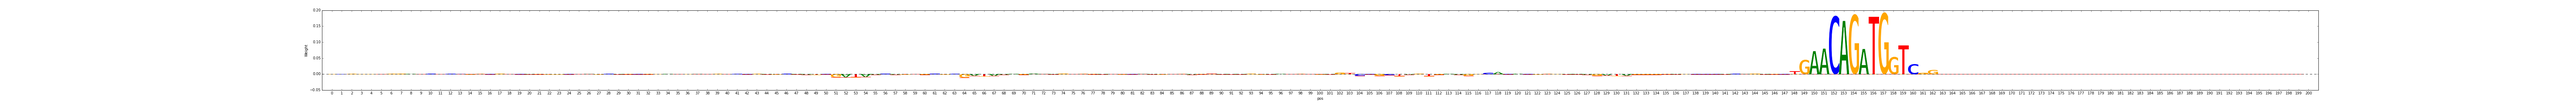
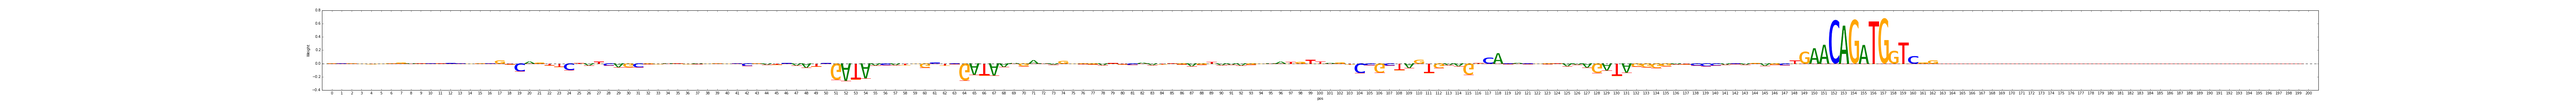
expo upweight code in
Former-commit-id: 7d4ef8eb1ed68d4a391bf053489ef01f14855e9f [formerly 24d98cca371fc95571f79d4fe134fc0058963b84]
Former-commit-id: 26a80b72f239a153e6421ce679d410302ba3c8ca

Changed region(s): [[0.125, 0.4062, 0.875, 0.7812], [0.6875, 0.1562, 0.75, 0.25]]

diff --git a/deeplift/keras_conversion.py b/deeplift/keras_conversion.py
@@ -30,7 +30,7 @@ ActivationTypes = deeplift_util.enum(relu='relu',
                                      linear='linear')
 
 
-def batchnorm_conversion(layer, name, mxts_mode):
+def batchnorm_conversion(layer, name, **kwargs):
    return [blobs.BatchNormalization(
         name=name,
         gamma=np.array(layer.gamma.get_value()),
@@ -43,10 +43,11 @@ def batchnorm_conversion(layer, name, mxts_mode):
     )] 
 
 
-def conv2d_conversion(layer, name, mxts_mode):
-    #mxts_mode not used
+def conv2d_conversion(layer, name, mxts_mode, expo_upweight_factor):
+    #mxts_mode only used for activation
     converted_activation = activation_conversion(
-                            layer, name, mxts_mode=mxts_mode)
+                            layer, name, mxts_mode=mxts_mode,
+                            expo_upweight_factor=expo_upweight_factor)
     to_return = [blobs.Conv2D(
             name=("preact_" if len(converted_activation) > 0
                         else "")+name,
@@ -58,8 +59,7 @@ def conv2d_conversion(layer, name, mxts_mode):
     return to_return
 
 
-def pool2d_conversion(layer, name, pool_mode, mxts_mode):
-    #mxts_mode not used
+def pool2d_conversion(layer, name, pool_mode, **kwargs):
     return [blobs.Pool2D(
              name=name,
              pool_size=layer.get_config()[KerasKeys.pool_size],
@@ -69,22 +69,21 @@ def pool2d_conversion(layer, name, pool_mode, mxts_mode):
              pool_mode=pool_mode)]
 
 
-def zeropad2d_conversion(layer, name, mxts_mode):
-    #mxts_mode not used
+def zeropad2d_conversion(layer, name, **kwargs):
     return [blobs.ZeroPad2D(
              name=name,
              padding=layer.get_config()[KerasKeys.padding])]
 
 
-def flatten_conversion(layer, name, mxts_mode):
-    #mxts_mode not used
+def flatten_conversion(layer, name, **kwargs):
     return [blobs.Flatten(name=name)]
 
 
-def dense_conversion(layer, name, mxts_mode):
-    #mxts_mode not used
-    converted_activation = activation_conversion(layer, name,
-                                                  mxts_mode=mxts_mode) 
+def dense_conversion(layer, name, mxts_mode, expo_upweight_factor):
+    converted_activation = activation_conversion(
+                                  layer, name,
+                                  mxts_mode=mxts_mode,
+                                  expo_upweight_factor=expo_upweight_factor) 
     to_return = [blobs.Dense(
                   name=("preact_" if len(converted_activation) > 0
                         else "")+name, 
@@ -94,31 +93,40 @@ def dense_conversion(layer, name, mxts_mode):
     return to_return
 
 
-def prelu_conversion(layer, name, mxts_mode):
+def prelu_conversion(layer, name, mxts_mode, expo_upweight_factor):
    return [blobs.PReLU(alpha=layer.get_weights()[0],
-                       name=name, mxts_mode=mxts_mode)] 
+                       name=name, mxts_mode=mxts_mode,
+                       expo_upweight_factor=expo_upweight_factor)] 
 
 
-def relu_conversion(layer, name, mxts_mode):
-    return [blobs.ReLU(name=name, mxts_mode=mxts_mode)]
+def relu_conversion(layer, name, mxts_mode, expo_upweight_factor):
+    return [blobs.ReLU(name=name, mxts_mode=mxts_mode,
+                                  expo_upweight_factor=expo_upweight_factor)]
 
 
-def sigmoid_conversion(layer, name, mxts_mode):
-    return [blobs.Sigmoid(name=name, mxts_mode=mxts_mode)]
+def sigmoid_conversion(layer, name, mxts_mode, expo_upweight_factor):
+    return [blobs.Sigmoid(name=name,
+                          mxts_mode=mxts_mode,
+                          expo_upweight_factor=expo_upweight_factor)]
 
 
-def softmax_conversion(layer, name, mxts_mode):
-    return [blobs.Softmax(name=name, mxts_mode=mxts_mode)]
+def softmax_conversion(layer, name, mxts_mode, expo_upweight_factor):
+    return [blobs.Softmax(name=name,
+                          mxts_mode=mxts_mode,
+                          expo_upweight_factor=expo_upweight_factor)]
 
 
-def activation_conversion(layer, name, mxts_mode):
+def activation_conversion(layer, name, mxts_mode, expo_upweight_factor):
     activation = layer.get_config()[KerasKeys.activation]
-    return activation_to_conversion_function[activation](layer, name,
-                                                         mxts_mode) 
+    return activation_to_conversion_function[activation](
+                                     layer, name,
+                                     mxts_mode=mxts_mode,
+                                     expo_upweight_factor=expo_upweight_factor) 
 
 
 activation_to_conversion_function = {
-    ActivationTypes.linear: lambda layer, name, mxts_mode: [],
+    ActivationTypes.linear: lambda layer, name,\
+                             mxts_mode, expo_upweight_factor: [],
     ActivationTypes.relu: relu_conversion,
     ActivationTypes.sigmoid: sigmoid_conversion,
     ActivationTypes.softmax: softmax_conversion
@@ -127,27 +135,28 @@ activation_to_conversion_function = {
 
 layer_name_to_conversion_function = {
     'Convolution2D': conv2d_conversion,
-    'MaxPooling2D': lambda layer, name, mxts_mode:\
+    'MaxPooling2D': lambda layer, name, mxts_mode, expo_upweight_factor:\
                      pool2d_conversion(layer, name,
-                                       pool_mode=PoolMode.max,
-                                       mxts_mode=mxts_mode),
-    'AveragePooling2D': lambda layer, name, mxts_mode:\
+                                       pool_mode=PoolMode.max),
+    'AveragePooling2D': lambda layer, name, mxts_mode, expo_upweight_factor:\
                      pool2d_conversion(layer, name,
-                                       pool_mode=PoolMode.avg,
-                                       mxts_mode=mxts_mode),
+                                       pool_mode=PoolMode.avg),
     'BatchNormalization': batchnorm_conversion,
     'ZeroPadding2D': zeropad2d_conversion,
     'Flatten': flatten_conversion,
     'Dense': dense_conversion,
      #in current keras implementation, scaling is done during training
      #and not predict time, so Dropout is a no-op at predict time
-    'Dropout': lambda layer, name, mxts_mode: [blobs.NoOp(name=name)], 
+    'Dropout': lambda layer, name, mxts_mode, expo_upweight_factor:\
+                                             [blobs.NoOp(name=name)], 
     'Activation': activation_conversion, 
     'PReLU': prelu_conversion
 }
 
 
-def convert_sequential_model(model, num_dims=None, mxts_mode=MxtsMode.DeepLIFT):
+def convert_sequential_model(model, num_dims=None,
+                                    mxts_mode=MxtsMode.DeepLIFT,
+                                    expo_upweight_factor=0):
     converted_layers = []
     if (model.layers[0].input_shape is not None):
         input_shape = model.layers[0].input_shape[1:]
@@ -169,7 +178,8 @@ def convert_sequential_model(model, num_dims=None, mxts_mode=MxtsMode.DeepLIFT):
                                type(layer).__name__]
         converted_layers.extend(conversion_function(
                                  layer=layer, name=str(layer_idx),
-                                 mxts_mode=mxts_mode)) 
+                                 mxts_mode=mxts_mode,
+                                 expo_upweight_factor=expo_upweight_factor)) 
     connect_list_of_layers(converted_layers)
     converted_layers[-1].build_fwd_pass_vars()
     return models.SequentialModel(converted_layers)
@@ -195,6 +205,7 @@ def connect_list_of_layers(deeplift_layers):
 
 def convert_graph_model(model,
                         mxts_mode=MxtsMode.DeepLIFT,
+                        expo_upweight_factor=0,
                         auto_build_outputs=True):
     name_to_blob = OrderedDict()
     keras_layer_to_deeplift_blobs = OrderedDict() 
@@ -218,7 +229,8 @@ def convert_graph_model(model,
                                layer.get_config()[KerasKeys.name]]
         deeplift_layers = conversion_function(
                                  layer=layer, name=layer_name,
-                                 mxts_mode=mxts_mode)
+                                 mxts_mode=mxts_mode,
+                                 expo_upweight_factor=expo_upweight_factor)
         connect_list_of_layers(deeplift_layers)
         keras_layer_to_deeplift_blobs[id(layer)] = deeplift_layers
         for deeplift_layer in deeplift_layers:
@@ -245,6 +257,7 @@ def convert_graph_model(model,
 
 
 def mean_normalise_first_conv_layer_weights(model,
+                                            normalise_across_rows,
                                             name_of_conv_layer_to_normalise):
     if (type(model).__name__ == "Sequential"):
         layer_to_adjust = model.layers[0];
@@ -255,7 +268,8 @@ def mean_normalise_first_conv_layer_weights(model,
                name_of_conv_layer_to_normalise+" not found; node names are: "\
                " "+str(mode.nodes.keys())
         layer_to_adjust = model.nodes[name_of_conv_layer_to_normalise]
-    mean_normalise_columns_in_conv_layer(layer_to_adjust)
+    mean_normalise_columns_in_conv_layer(layer_to_adjust,
+                                         normalise_across_rows)
 
 
 def mean_normalise_conv_layer_with_name(model, layer_name):
@@ -265,7 +279,8 @@ def mean_normalise_conv_layer_with_name(model, layer_name):
     mean_normalise_columns_in_conv_layer(model.nodes[layer_name]);
 
 
-def mean_normalise_columns_in_conv_layer(layer_to_adjust):
+def mean_normalise_columns_in_conv_layer(layer_to_adjust,
+                                         normalise_across_rows):
     """
         For conv layers operating on one hot encoding,
         adjust the weights/bias such that the output is
@@ -275,7 +290,7 @@ def mean_normalise_columns_in_conv_layer(layer_to_adjust):
     weights, biases = layer_to_adjust.get_weights();
     normalised_weights, normalised_bias =\
      deeplift_util.mean_normalise_weights_for_sequence_convolution(
-                    weights, biases)
+                    weights, biases, normalise_across_rows)
     layer_to_adjust.set_weights([normalised_weights,
                                  normalised_bias])
 
@@ -289,6 +304,7 @@ def mean_normalise_softmax_weights(softmax_dense_layer):
 
 def load_keras_model(weights, yaml,
                      normalise_conv_for_one_hot_encoded_input=False,
+                     normalise_across_rows=True,
                      name_of_conv_layer_to_normalise=None): 
     #At the time of writing, I don't actually use this because
     #I do the converion in convert_sequential_model to the deeplift_layer
@@ -298,5 +314,6 @@ def load_keras_model(weights, yaml,
     if (normalise_conv_for_one_hot_encoded_input):
         mean_normalise_first_conv_layer_weights(
          model,
+         normalise_across_rows=normalise_across_rows,
          name_of_conv_layer_to_normalise=name_of_conv_layer_to_normalise)
     return model 

diff --git a/deeplift/blobs.py b/deeplift/blobs.py
@@ -423,7 +423,7 @@ class Activation(SingleInputMixin, OneDimOutputMixin, Node):
     #not actually one dimensional)
 
     def __init__(self, mxts_mode,
-                       expo_upweight_factor,
+                       expo_upweight_factor=0,
                        **kwargs):
         self.mxts_mode = mxts_mode
         self.expo_upweight_factor = expo_upweight_factor
@@ -471,7 +471,7 @@ class Activation(SingleInputMixin, OneDimOutputMixin, Node):
                 scale_factor = self._deeplift_get_scale_factor()
             elif (self.mxts_mode == MxtsMode.GuidedBackpropDeepLIFT1):
                 deeplift_scale_factor = self._deeplift_get_scale_factor() 
-                scale_factor = deeplift_mxts*(self.get_mxts() > 0)
+                scale_factor = deeplift_scale_factor*(self.get_mxts() > 0)
             elif (self.mxts_mode == MxtsMode.Gradient):
                 scale_factor = self._gradients_get_scale_factor() 
             elif (self.mxts_mode == MxtsMode.GuidedBackprop):
@@ -493,13 +493,13 @@ class Activation(SingleInputMixin, OneDimOutputMixin, Node):
                 gtezero_activation_mask = (self.get_activation_vars() > 0)
                 deeplift_scale_factor = self._deeplift_get_scale_factor() 
                 scale_factor = deeplift_scale_factor\
-                               *B.pow(B.abs(deeplift_scale_factor),1)\
+                               *B.pow(B.abs(deeplift_scale_factor),1)
             else: 
                 raise RuntimeError("Unsupported mxts_mode: "
                                    +str(self.mxts_mode))
             mxts = scale_factor*self.get_mxts()\
                                *B.pow(B.abs(self.get_mxts()),
-                                      expo_upweight_factor)
+                                      self.expo_upweight_factor)
         return mxts
 
     def _get_gradient_at_activation(self, activation_vars):

diff --git a/deeplift/deeplift_util.py b/deeplift/deeplift_util.py
@@ -74,14 +74,26 @@ def run_function_in_batches(func,
 
 def mean_normalise_weights_for_sequence_convolution(weights,
                                                     bias,
+                                                    normalise_across_rows,
                                                     weightsHeight=4):
     #weights: outputchannels, inputChannels, windowDims
     assert len(weights.shape)==4
-    assert weights.shape[1]==1
-    assert weights.shape[2]==weightsHeight
-    mean_weights_at_positions=np.mean(weights,axis=2)
-    new_bias = bias + np.sum(np.sum(mean_weights_at_positions,axis=2),axis=1)
-    mean_weights_at_positions=mean_weights_at_positions[:,:,None,:]
+    assert weights.shape[1]==1, weights.shape
+    axis_for_normalisation = 2 if normalise_across_rows else 3
+    if (normalise_across_rows):
+        assert weights.shape[axis_for_normalisation]==\
+         weightsHeight, weights.shape
+    else:
+        assert weights.shape[axis_for_normalisation]==\
+         weightsHeight, weights.shape
+        
+    mean_weights_at_positions=np.mean(weights,axis=axis_for_normalisation)
+    new_bias = bias + np.sum(np.sum(mean_weights_at_positions,
+                                    axis=2),axis=1)
+    if (normalise_across_rows):
+        mean_weights_at_positions=mean_weights_at_positions[:,:,None,:]
+    else:
+        mean_weights_at_positions=mean_weights_at_positions[:,:,:,None]
     renormalised_weights=weights-mean_weights_at_positions
     return renormalised_weights, new_bias
 
